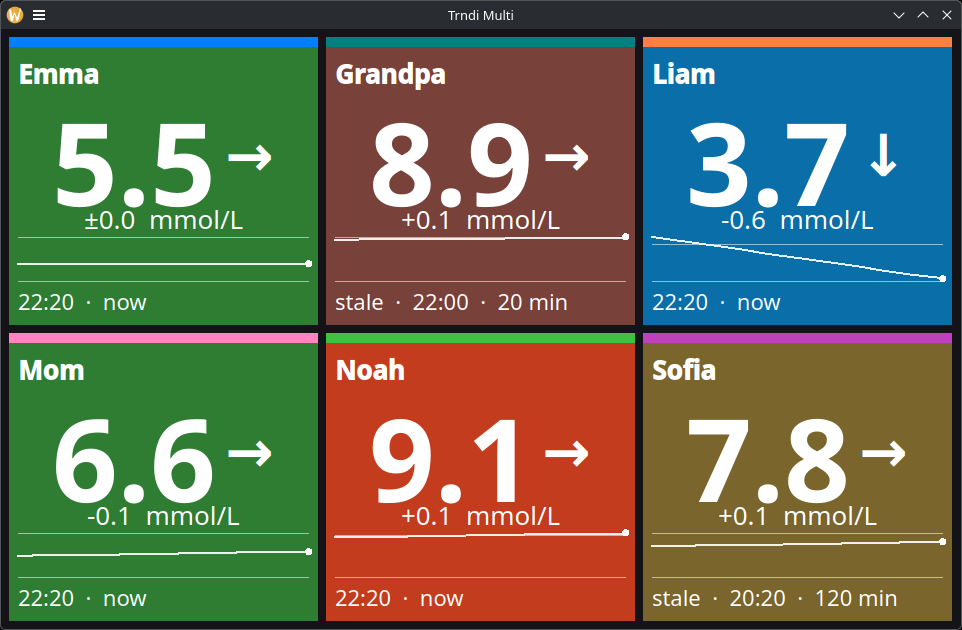
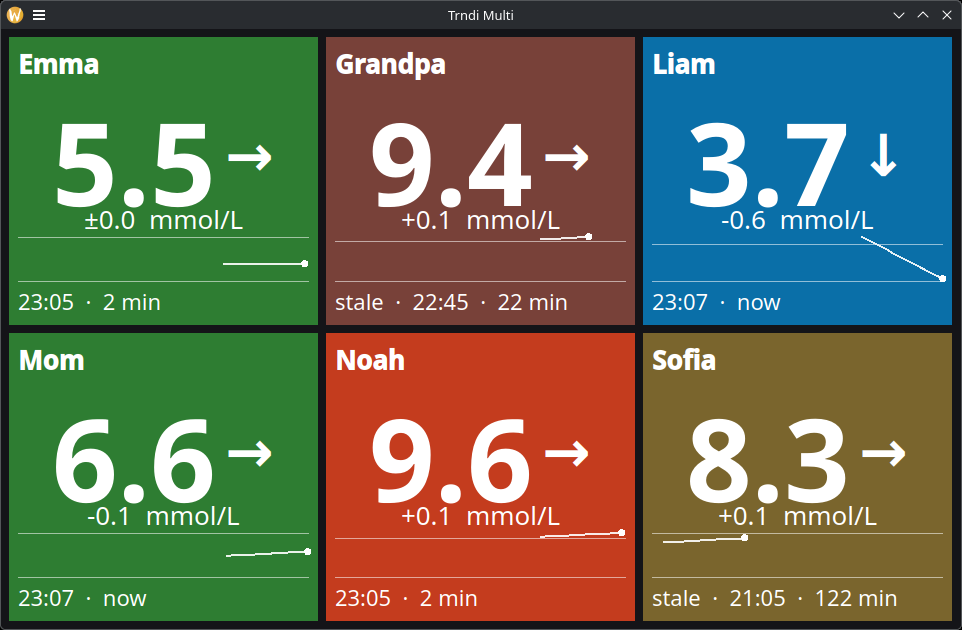
new images

diff --git a/multi.html b/multi.html
@@ -128,12 +128,12 @@
                 <div class="feature reveal">
                     <div class="feature-icon">🖥</div>
                     <h3>Wall Display Ready</h3>
-                    <p>Everything scales with the window. F11 goes full screen, the grid picks the layout that gives the biggest tiles, and text stays white on colour.</p>
+                    <p>Everything scales with the window and the grid picks the layout that gives the biggest tiles. <code>--kiosk</code> goes full screen, hides the pointer and keeps the machine and screen awake, on Linux, macOS and Windows.</p>
                 </div>
                 <div class="feature reveal">
                     <div class="feature-icon">🔗</div>
                     <h3>Shares Trndi's Settings</h3>
-                    <p>Built on the same API and platform layer as the desktop app. Accounts, nicknames, colours, backends and thresholds all come from Trndi; there is nothing to configure here.</p>
+                    <p>Built on the same API and platform layer as the desktop app. Accounts, nicknames, backends and thresholds all come from Trndi; there is nothing to configure here.</p>
                 </div>
                 <div class="feature reveal">
                     <div class="feature-icon">💝</div>
@@ -217,11 +217,11 @@ sudo make install # optional</pre>
             <div class="setup-grid">
                 <div class="setup-item reveal">
                     <h3>1⃣ Add people in Trndi</h3>
-                    <p>Open Trndi's settings, go to the <em>Multi User</em> tab and add an account per person, each with its own backend and credentials. Give them a nickname and a colour while you are there. <a href="https://github.com/slicke/trndi/blob/main/guides/Multiuser.md">Multi-user guide &rarr;</a></p>
+                    <p>Open Trndi's settings, go to the <em>Multi User</em> tab and add an account per person, each with its own backend and credentials. Give them a nickname while you are there. <a href="https://github.com/slicke/trndi/blob/main/guides/Multiuser.md">Multi-user guide &rarr;</a></p>
                 </div>
                 <div class="setup-item reveal">
                     <h3>2⃣ Start trndi-multi</h3>
-                    <p>That is all. It reads the same settings and shows every account with a backend, the default account first. The colour becomes the stripe on the tile; the nickname becomes its title.</p>
+                    <p>That is all. It reads the same settings and shows every account with a backend, the default account first. The nickname becomes the tile's title.</p>
                 </div>
             </div>
 
@@ -229,7 +229,11 @@ sudo make install # optional</pre>
                 <h3>Keys</h3>
                 <pre class="terminal terminal-plain">F5      refetch every account now
 F11     full screen (Esc leaves it)
-Q       quit</pre>
+Q       quit
+
+trndi-multi --fullscreen   start full screen
+trndi-multi --kiosk        wall display: full screen, pointer hidden, Esc ignored,
+                           machine and screen kept awake while it runs</pre>
                 <p class="setup-tip">💡 Values are shown in the first account's unit, so a wall with both mmol/L and mg/dL accounts still reads as one thing. Editing accounts, alarms, extensions and the Web API stay in Trndi itself.</p>
             </div>
         </div>

diff --git a/index.html b/index.html
@@ -89,8 +89,8 @@
                     <h3>Windows 11</h3>
                 </div>
                 <div class="screenshot-item reveal">
-                    <img src="doc/img/img_macos.png" alt="Trndi on macOS" loading="lazy">
-                    <h3>macOS</h3>
+                    <img src="doc/img/img_lin_range.png" alt="Trndi on Fedora Linux (KDE)" loading="lazy">
+                    <h3>Linux</h3>
                 </div>
                 <div class="screenshot-item reveal">
                     <img src="doc/img/img_rpi.jpg" alt="Trndi on Raspberry Pi with touchscreen" loading="lazy">
